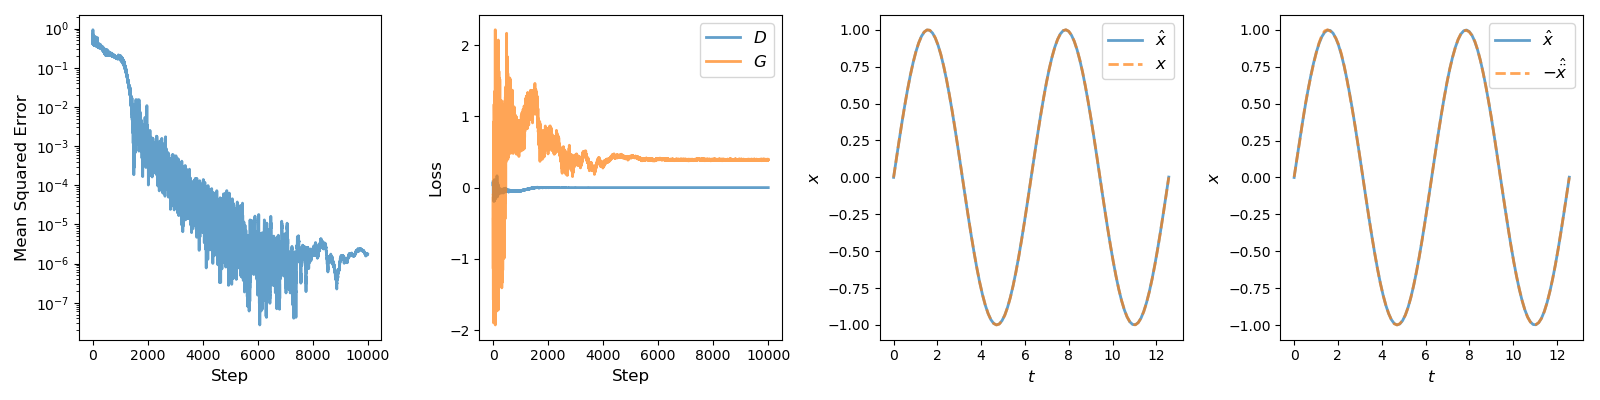
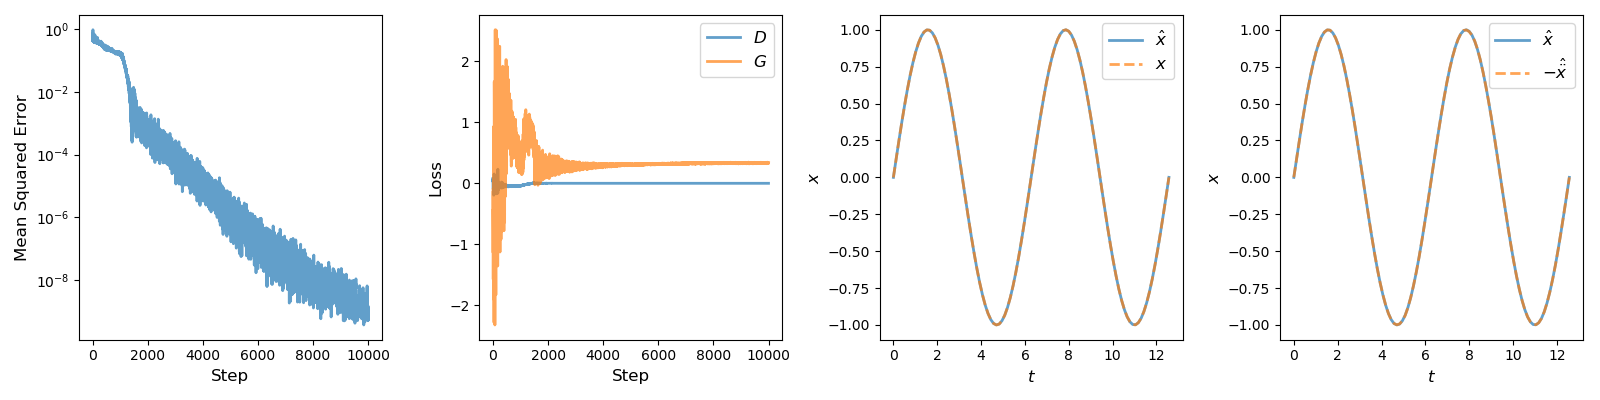
update pos and sho gan paper plots

diff --git a/denn/config.py b/denn/config.py
@@ -60,13 +60,13 @@ pos_problem = pb.PoissonEquation(nx=100, ny=100, f=10, perturb=True)
 # GAN Algorithm
 gan_kwargs = dict(
     method='unsupervised',
-    niters=50000,
+    niters=500,
     g_lr=1e-3,
     g_betas=(0., 0.9),
     d_lr=1e-3,
     d_betas=(0., 0.9),
     lr_schedule=True,
-    gamma=0.9999,
+    gamma=0.99,
     obs_every=1,
     d1=1.,
     d2=1.,
@@ -82,10 +82,10 @@ gan_kwargs = dict(
 
 # Generator MLP
 gen_kwargs = dict(
-    in_dim=1,
+    in_dim=2,
     out_dim=1,
     n_hidden_units=64,
-    n_hidden_layers=12,
+    n_hidden_layers=4,
     activation=nn.Tanh(),
     residual=True,
     regress=True,
@@ -94,10 +94,10 @@ gen_kwargs = dict(
 
 # Discriminator MLP
 disc_kwargs = dict(
-    in_dim=2,
+    in_dim=3,
     out_dim=1,
     n_hidden_units=64,
-    n_hidden_layers=16,
+    n_hidden_layers=4,
     activation=nn.Tanh(),
     residual=True,
     regress=True,        # true for WGAN, false otherwise
